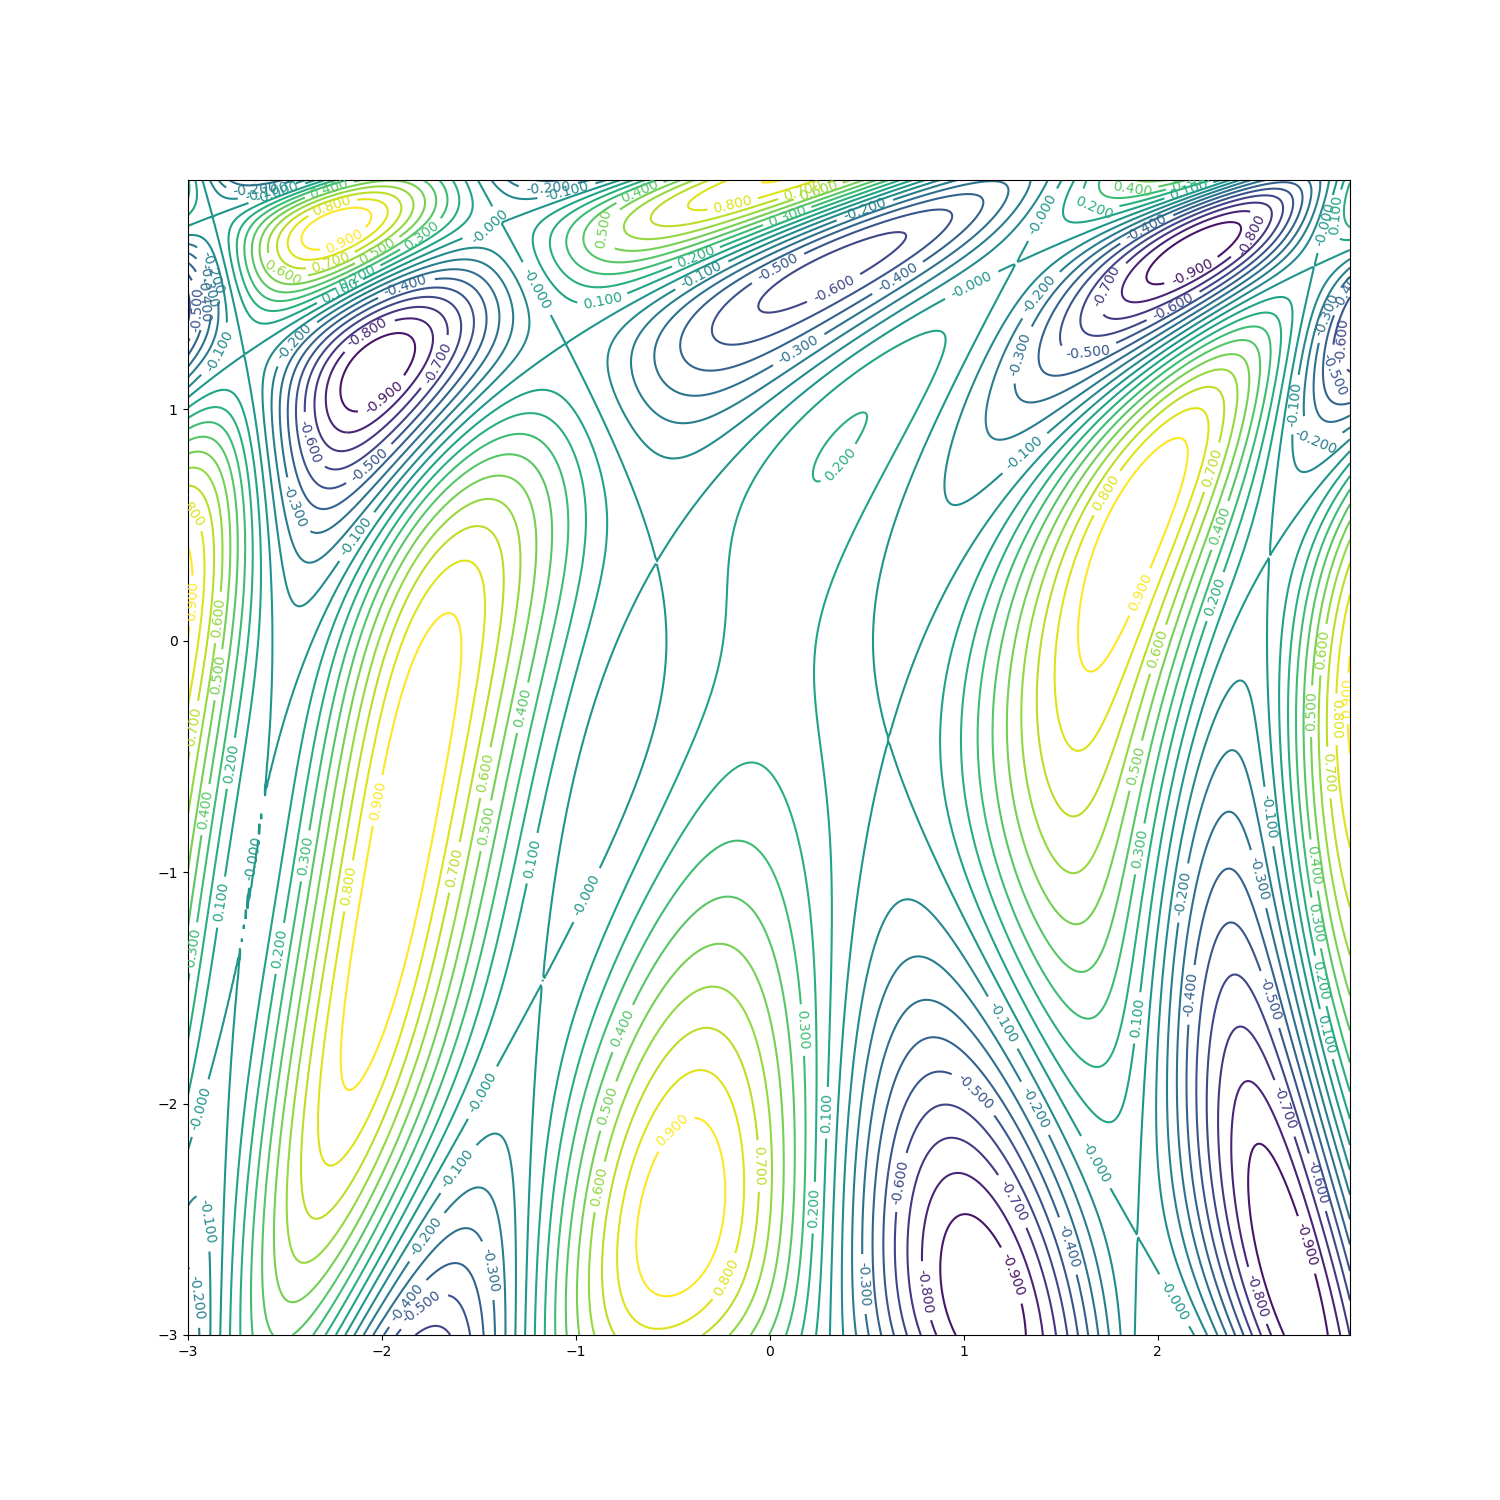
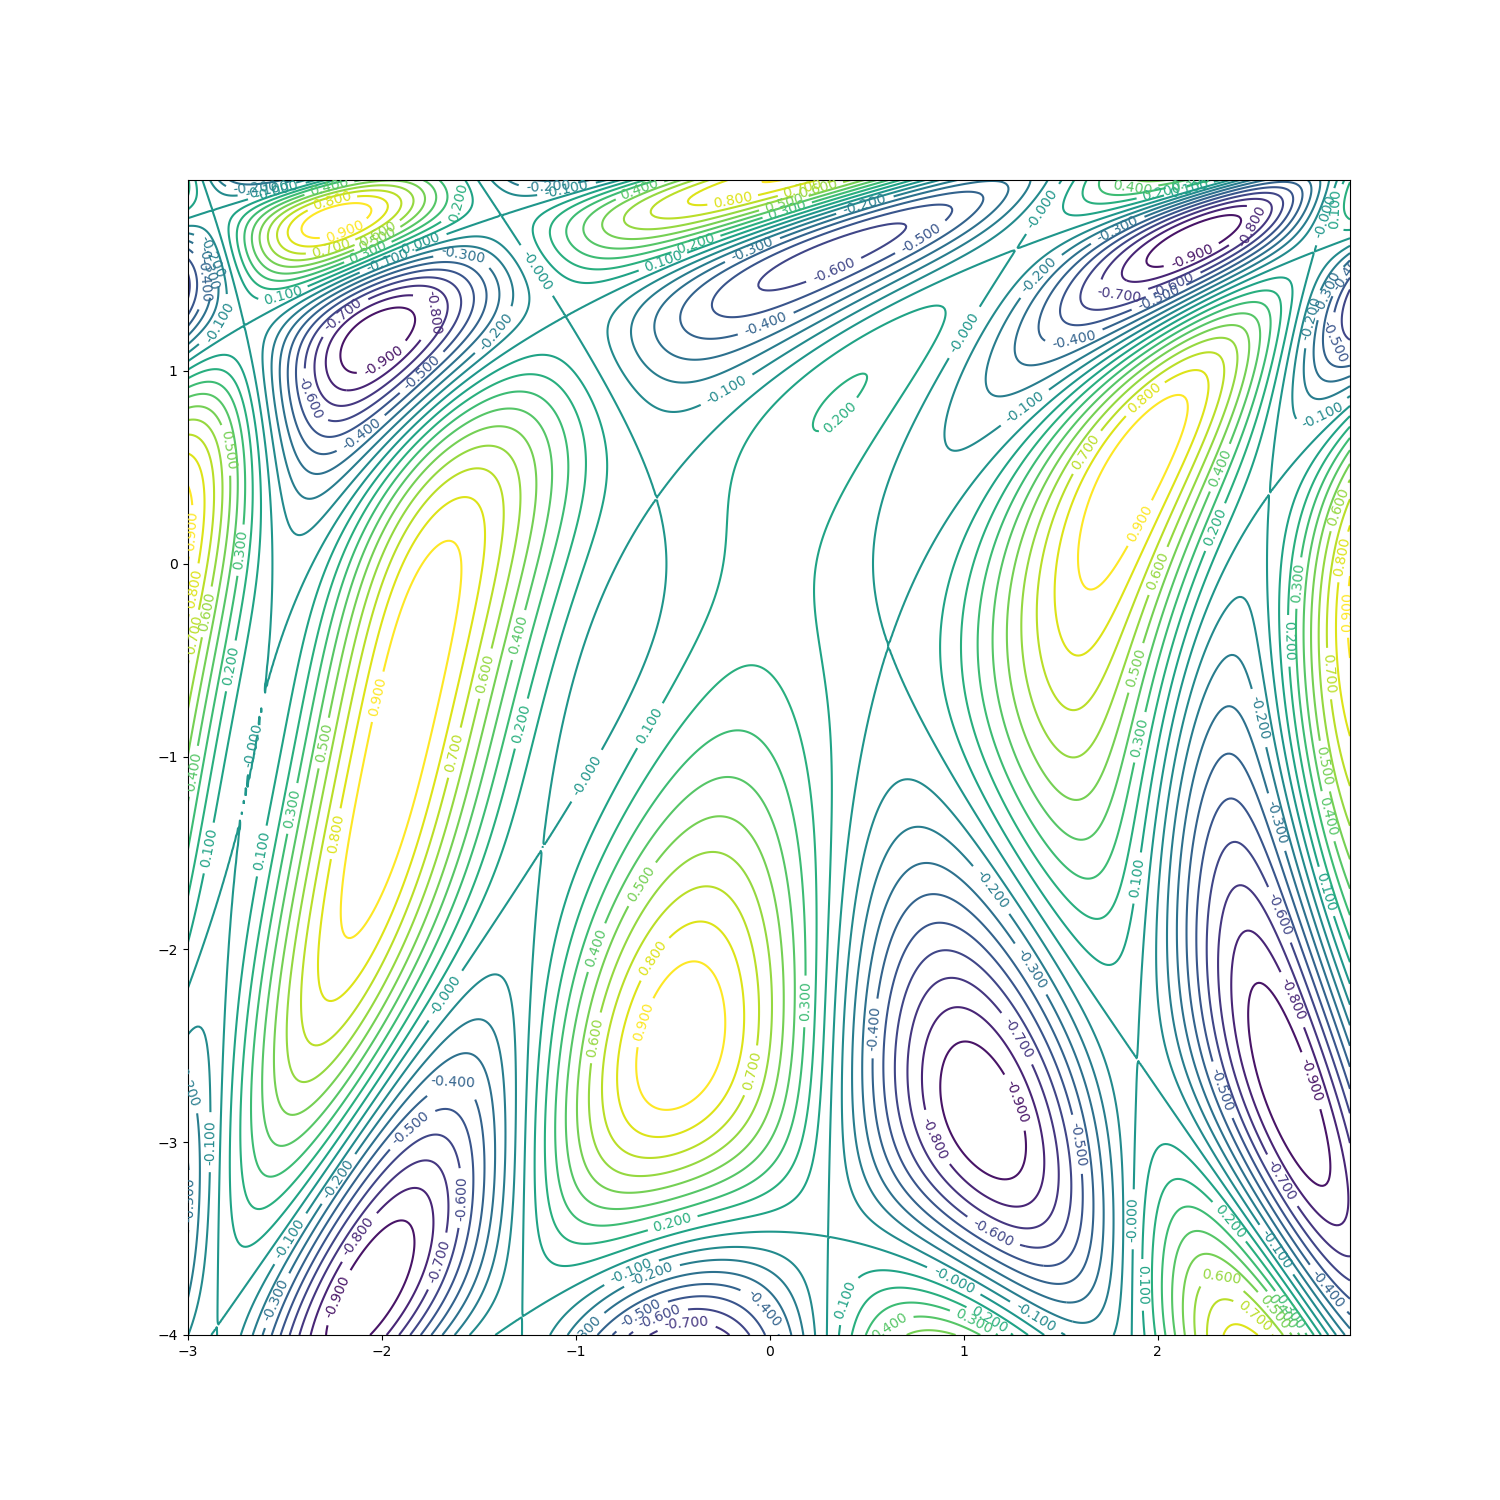
check the derivatives with sympy; fixed the dz/dy error in f1;

Changed region(s): [[0.1227, 0.1227, 0.92, 0.8893]]

diff --git a/python/gif_grad_f1.py b/python/gif_grad_f1.py
@@ -20,11 +20,11 @@ def der_x(x,y):
 def der_y(x,y):
     a = 0.5*x*x - 0.25*y*y + 3
     b = 2*x + 1 - math.exp(y)
-    return 0.5 * y * math.cos(a) * math.cos(b) + math.exp(y) * math.sin(a) * math.sin(b)
+    return -0.5 * y * math.cos(a) * math.cos(b) + math.exp(y) * math.sin(a) * math.sin(b)
 
 delta = 0.01
 x = np.arange(-3.0, 3.0, delta)
-y = np.arange(-3.0, 2.0, delta)
+y = np.arange(-4.0, 2.0, delta)
 
 # https://numpy.org/doc/stable/reference/generated/numpy.meshgrid.html
 X, Y = np.meshgrid(x, y)
@@ -65,7 +65,7 @@ e_history = [[],[]]
 #epochs = 300
 
 learning_rate = 0.005
-epochs = 1000
+epochs = 2000
 
 for iter in range(epochs):
     #ax.plot(A[0], A[1], 'bo')
@@ -95,7 +95,7 @@ for iter in range(epochs):
     E[0] = E[0] - learning_rate * der_x(E[0], E[1])
     E[1] = E[1] - learning_rate * der_y(E[0], E[1])
 
-div = 50
+div = 100
 #for i in range(0, epochs//10):
 def animate(i):
     # https://stackoverflow.com/questions/509211/understanding-slice-notation

diff --git a/python/png_f1_contour.py b/python/png_f1_contour.py
@@ -15,7 +15,7 @@ def grad_descent_function(x,y):
 
 delta = 0.01
 x = np.arange(-3.0, 3.0, delta)
-y = np.arange(-3.0, 2.0, delta)
+y = np.arange(-4.0, 2.0, delta)
 
 # https://numpy.org/doc/stable/reference/generated/numpy.meshgrid.html
 X, Y = np.meshgrid(x, y)
